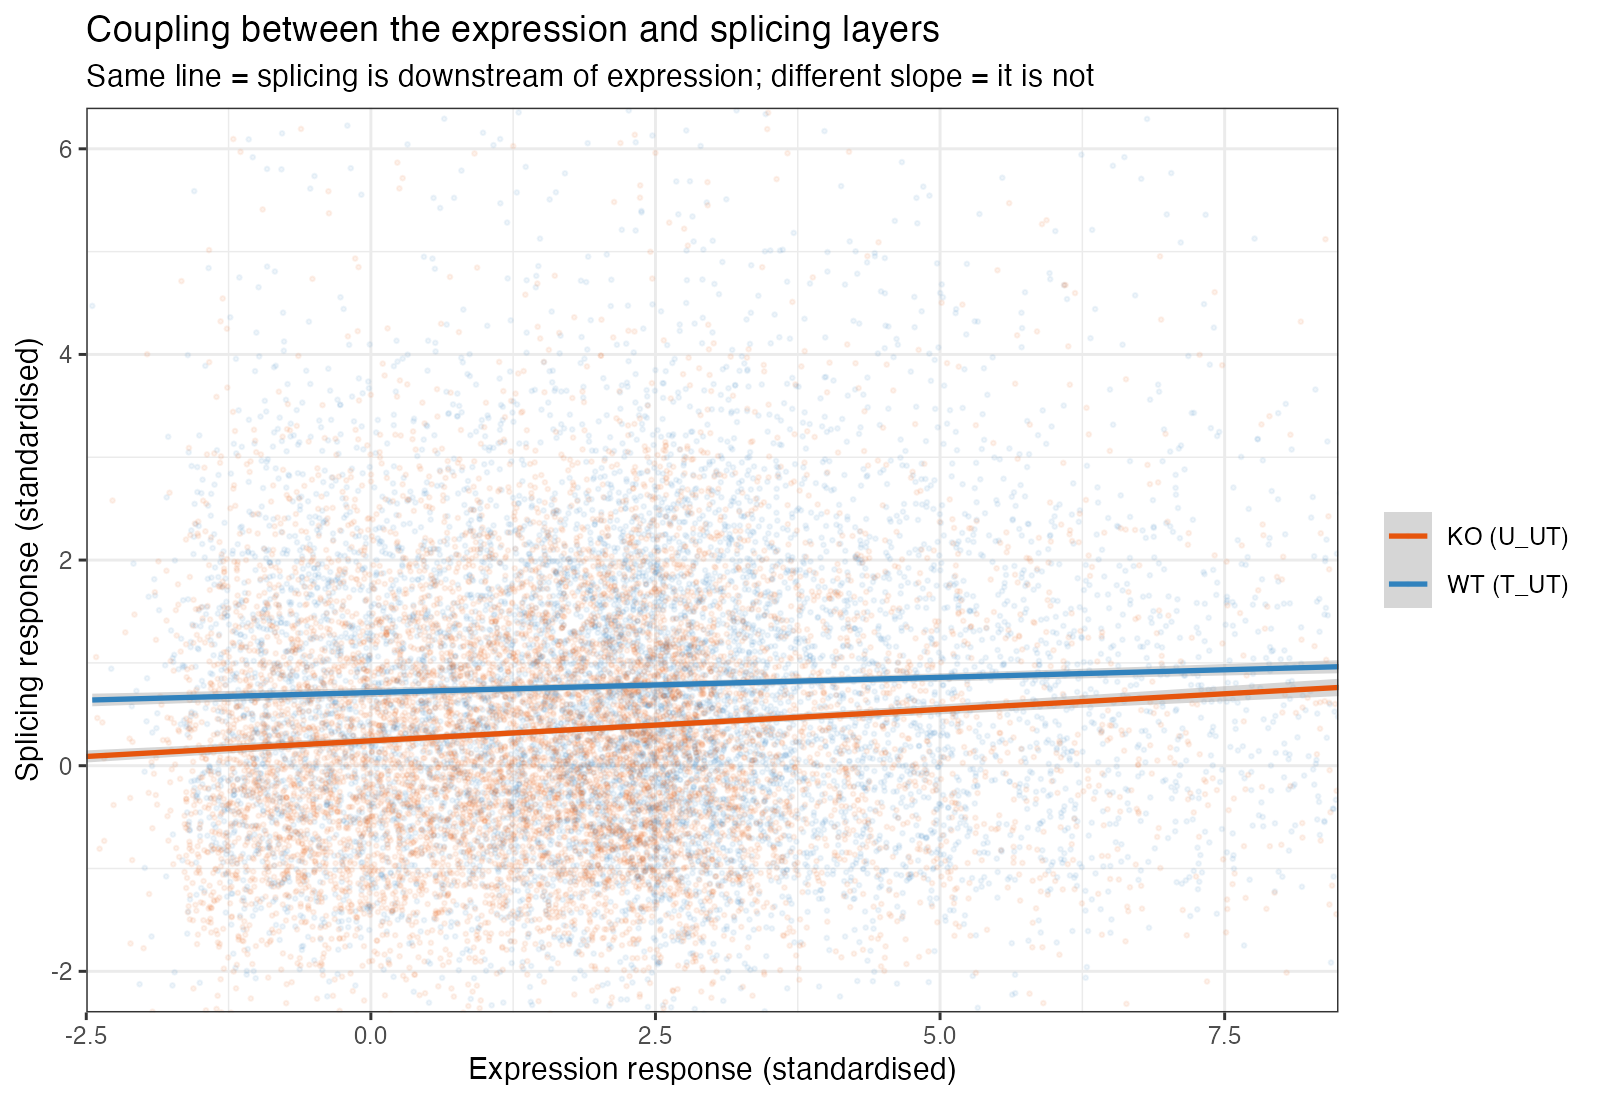
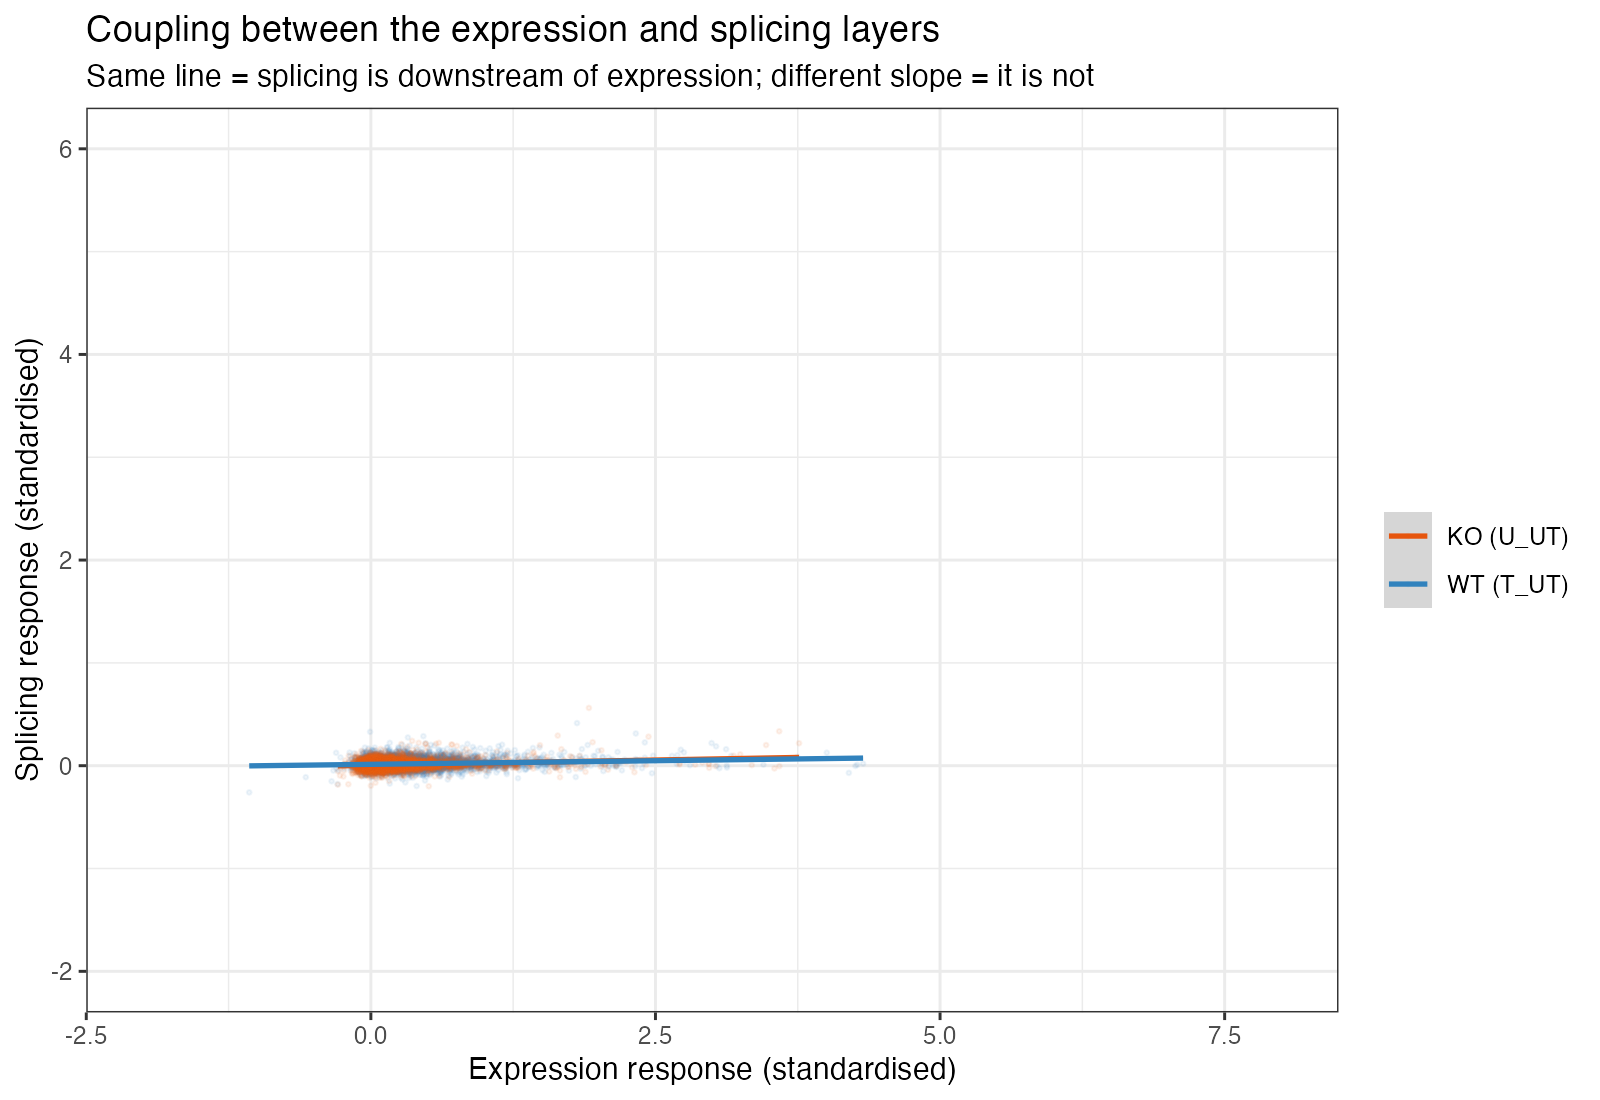
Rebuild the layer analysis around the paired design
The design is paired: T1_minus/T1_plus are the same biological sample before and after LPS.
08_layer_decoupling.R now uses a paired permutation null (sign-flips within pairs).

Two implementation traps, both recorded in the script header:

  - The paired null has 2^3 = 8 sign patterns, 4 distinct up to a global flip, so only 3 null
    patterns. That cannot support a per-gene SD, so the z-score standardisation used for the
    unpaired null is unavailable. Excess over the null mean is used instead, identically for
    both layers.
  - Per-pair TVD is invariant to swapping a pair, being already an absolute value. The
    splicing statistic must be the TVD of the mean per-pair dIF vector, not the mean of
    per-pair TVDs, or the null is degenerate.

WHAT IS ROBUST

Retention across all four specifications (paired/unpaired x z/excess): expression 0.59-0.66,
splicing 0.64-0.67. Both layers reduced by similar amounts, splicing if anything slightly
better retained. The 16%-vs-58% asymmetry does not hold under any specification tried.

No constitutive splicing defect: unstimulated KO-vs-WT composition distance is 0.095 against
0.142 within replicates - below replicate noise - while H_HT vs T_HT gives 1.31, a positive
control that the measure detects real differences.

WHAT IS NOT ROBUST

The response-matched comparison depends on the normalisation, not on the pairing:

    paired  statistic                    n     splicing ratio KO/WT
[…]

diff --git a/docs/REVIEW_CHANGES.md b/docs/REVIEW_CHANGES.md
@@ -306,6 +306,81 @@ show switching ISG counts (8, 8, 4, 3) beside every odds ratio.
 
 ---
 
+## 0e. Paired design, and what the layer question can actually answer (2026-08-07)
+
+The design was confirmed paired: `T1_minus`/`T1_plus` are the same biological sample before
+and after LPS, likewise T2/T3, U1-U3, H1-H3. `08_layer_decoupling.R` was rebuilt around a
+paired permutation null (sign-flips within pairs).
+
+Two implementation points that are easy to get wrong:
+
+- The paired null has 2^3 = 8 sign patterns, collapsing to 4 up to a global flip, so only
+  **3 null patterns** exist. That cannot support a per-gene SD, so the z-score standardisation
+  used for the unpaired null is unavailable; excess over the null mean is used instead.
+- Per-pair TVD is **invariant** to swapping a pair, being already an absolute value. The
+  splicing statistic must be the TVD of the mean per-pair dIF vector, not the mean of
+  per-pair TVDs, or the null is degenerate and identical to the observed value.
+
+### What is robust
+
+Retention of the wildtype LPS response in the knockout, across all four specifications
+(paired/unpaired x z/excess): **expression 0.59-0.66, splicing 0.64-0.67**. Both layers are
+reduced, by similar amounts, with splicing if anything slightly better retained. The claim
+that splicing is disproportionately lost (16% vs 58%) does not hold under any specification
+tried.
+
+Baseline isoform composition shows no constitutive defect: unstimulated KO-vs-WT TVD is
+0.095 against 0.142 within replicates (ratio 0.67, i.e. below replicate noise), while
+H_HT vs T_HT gives 1.31 -- a positive control that the measure detects real composition
+differences.
+
+### What is not robust, and why that matters
+
+The response-matched comparison -- the analysis that would show a splicing-specific effect --
+depends on the normalisation, not on the pairing:
+
+| paired | statistic | n matched | splicing ratio KO/WT |
+|---|---|---|---|
+| yes | z (divide by null SD) | 128 | 0.40 |
+| no | z (divide by null SD) | 59 | 0.40 |
+| yes | excess (subtract null mean) | 82 | 1.00 |
+| no | excess (subtract null mean) | 81 | 0.78 |
+
+Dividing by the null SD produces a deficit; subtracting the null mean does not. With 3 null
+patterns the SD is essentially unestimable, so the z-based result is the less trustworthy of
+the two -- but the honest conclusion is that **this design cannot resolve whether UBL5 has a
+splicing-specific role**. Reporting either number alone would overstate the evidence. Written
+out as `layer_specification_sensitivity.csv` so the ambiguity is visible rather than buried.
+
+This supersedes the earlier matched-response result (ratio 0.49, p = 4.1e-9) reported from
+the unpaired z-based specification alone.
+
+### The hidden regulatory layer (09_hidden_layer.R)
+
+Independent of the UBL5 question, and robust:
+
+- **Cryptic switchers** -- switching genes whose total output barely moves (|log2FC| < 0.25):
+  19.5% of switchers in T_UT, 29.0% U_UT, 26.3% T_HT, 32.0% H_HT. Includes IRAK3 (gene
+  -0.077, dIF 0.238), SOCS4, SP1, RAB7B, SORT1, LIG1.
+- **Compositional rescue** -- gene output falls while the baseline-dominant isoform holds and
+  minor isoforms collapse: 0.7-2.9% of dropping genes. PENK: gene -0.39, dominant +0.21,
+  minor -1.11, dominant IF 0.48 -> 0.76. Dominance is defined on unstimulated data only;
+  defining it post-LPS selects on the outcome.
+- Both survive re-annotation of the same libraries (cryptic 41% vs 0.31% base rate, 134x;
+  rescue 18% vs 0.25%, 74x). That is robustness to annotation, not biological replication.
+
+### Transcriptome design
+
+HT = T+H transcripts, UT = T+U transcripts, one PacBio run per sample type. So HT and UT are
+different transcript spaces and the earlier "35% technical ceiling" framing was wrong --
+part of that discordance is genuine annotation difference. Detection is symmetric within the
+UT reference (73.4% vs 70.9% of expression on PacBio-novel transcripts in T and U, no
+undetected isoforms in either arm), so the Q2 comparison is not biased by the design.
+Notably, 69-78% of expression sits on PacBio-novel transcripts across all four datasets from
+only 33-39% of isoforms.
+
+---
+
 ## 1. Statistics that were not interpretable as reported
 
 ### 1.1 Fisher test removed, not caveated
